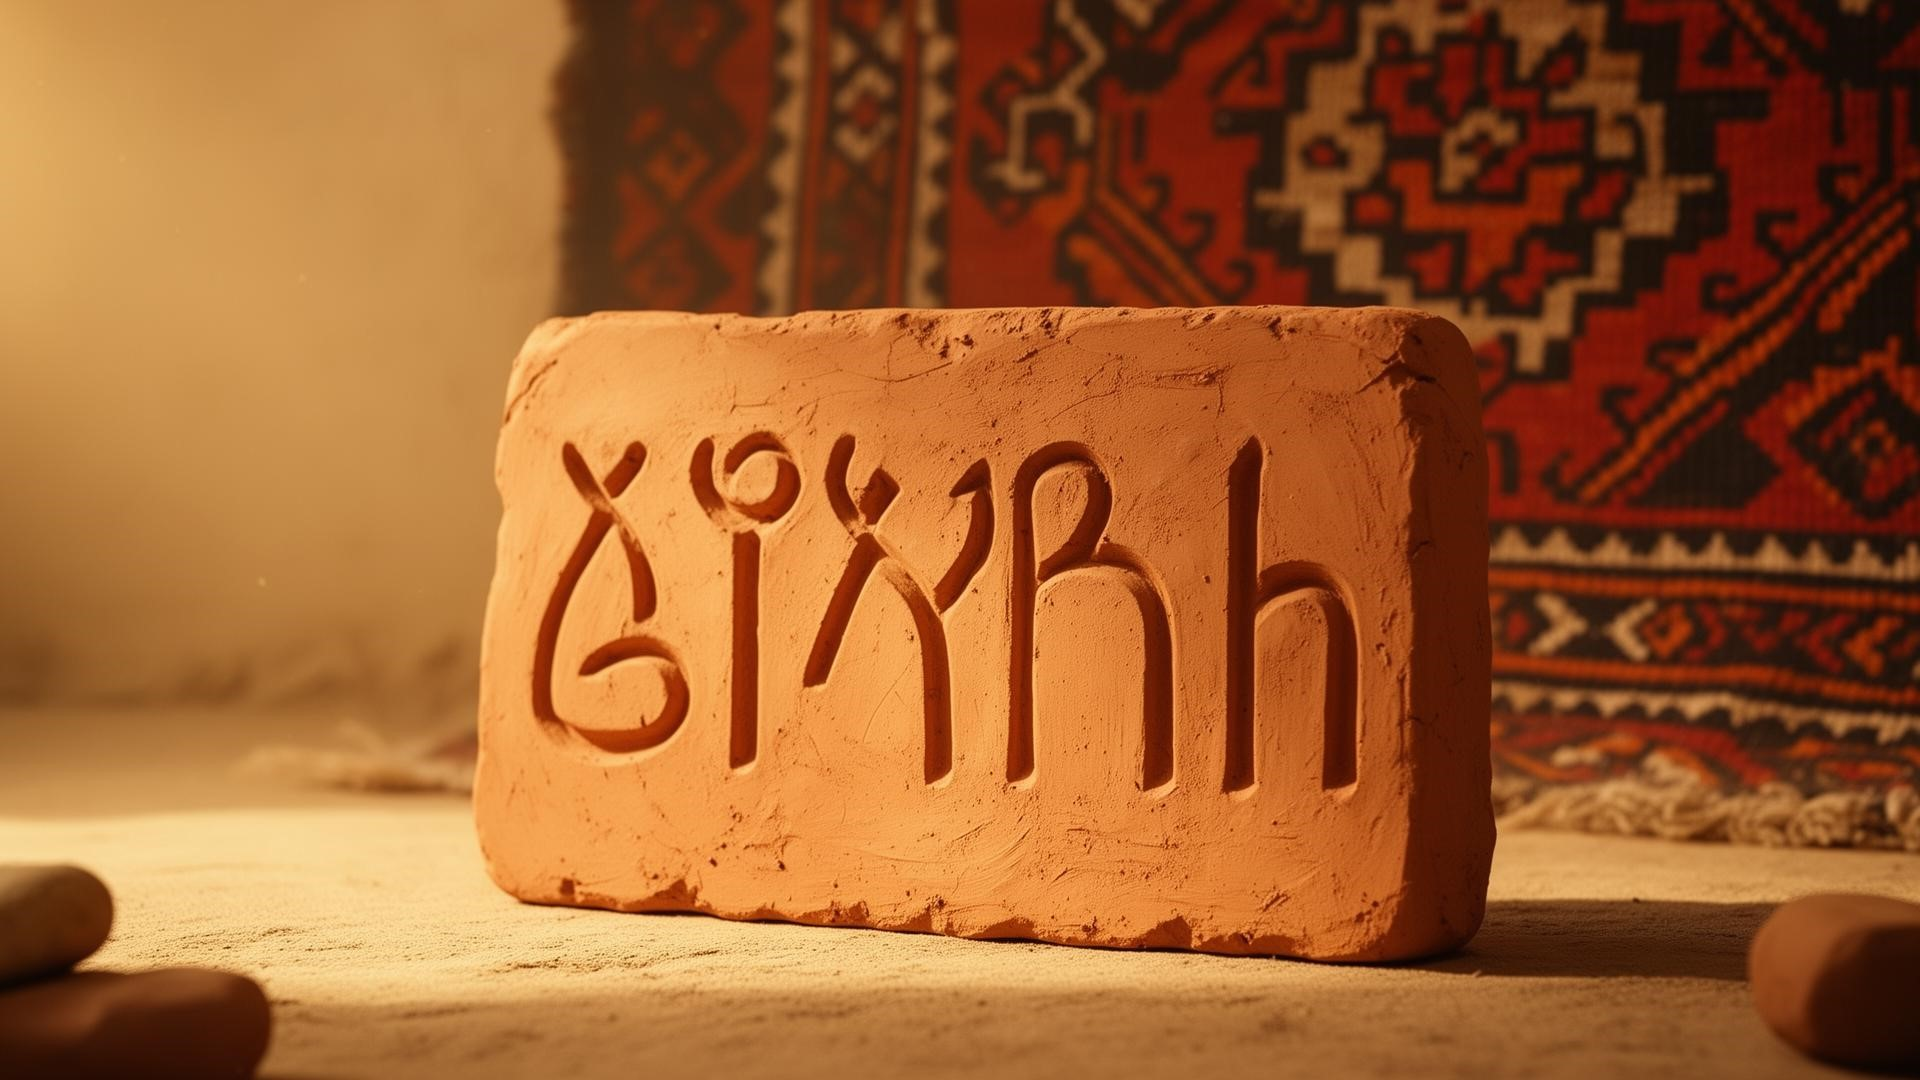
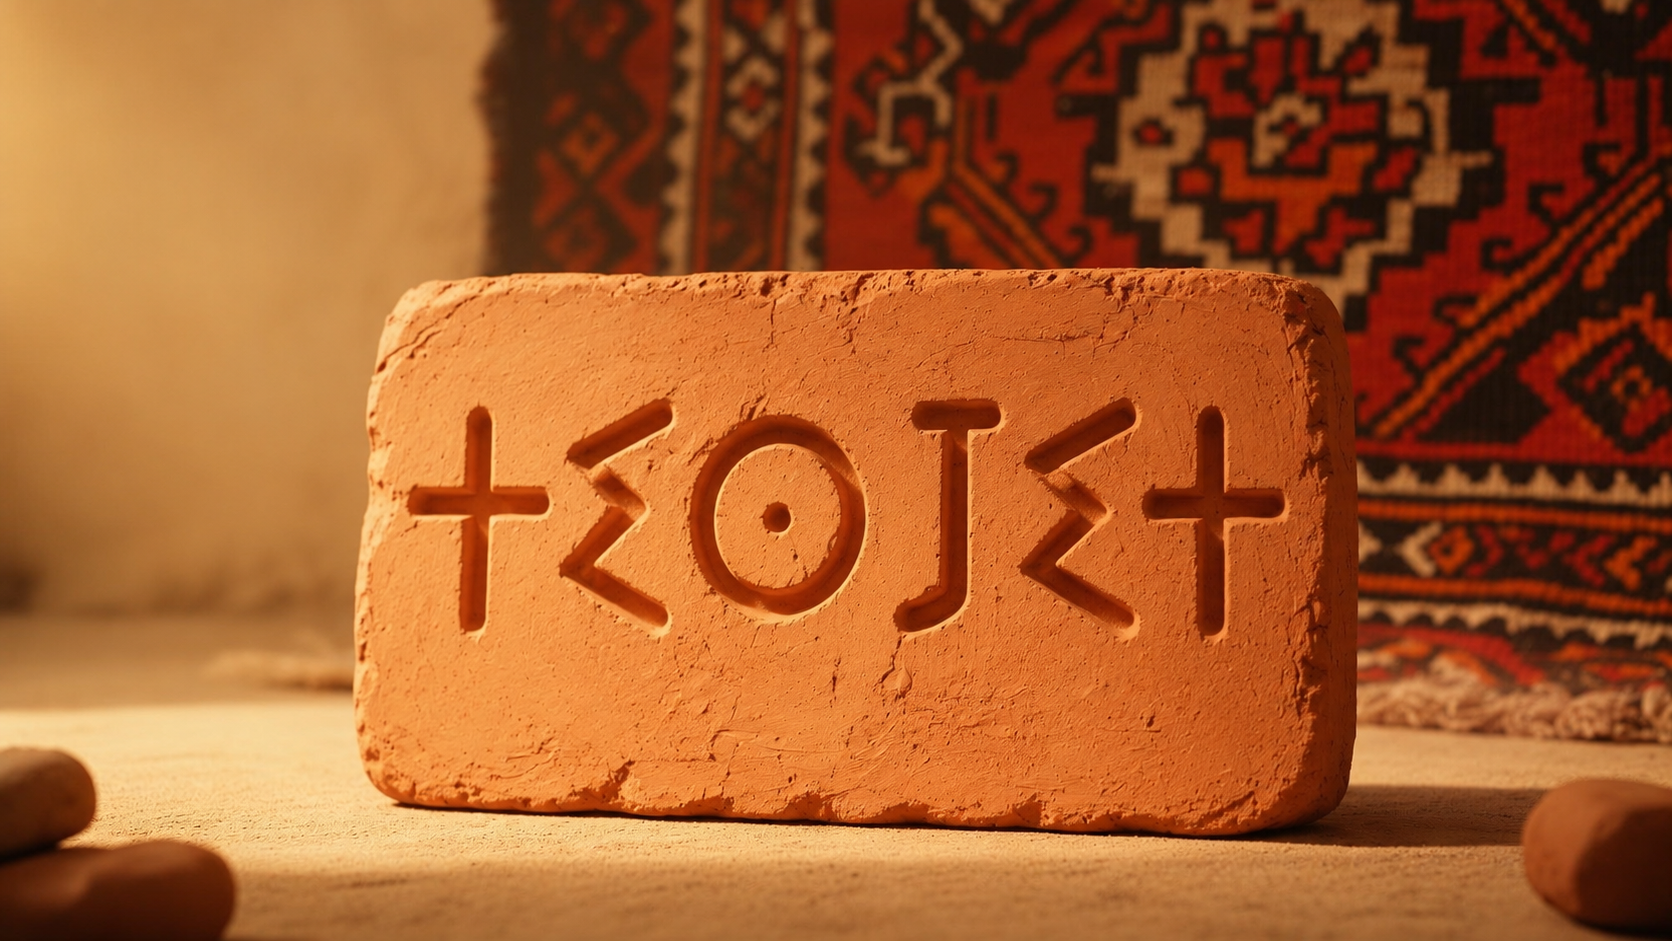
new update

diff --git a/app/dashboard/artisan/layout.tsx b/app/dashboard/artisan/layout.tsx
@@ -1,5 +1,6 @@
 import Sidebar from '../components/Sidebar';
 import Navbar from '../components/Navbar';
+import PageTransition from '@/components/PageTransition';
 
 export default function ArtisanLayout({ children }: { children: React.ReactNode }) {
   return (
@@ -10,7 +11,9 @@ export default function ArtisanLayout({ children }: { children: React.ReactNode 
         <div className="dashboard-content">
           <div className="orb orb-1" />
           <div className="orb orb-2" />
-          <div className="dashboard-inner">{children}</div>
+          <div className="dashboard-inner">
+            <PageTransition dashboardContent>{children}</PageTransition>
+          </div>
         </div>
       </div>
     </div>

diff --git a/app/dashboard/admin/layout.tsx b/app/dashboard/admin/layout.tsx
@@ -1,5 +1,6 @@
 import Sidebar from '../components/Sidebar';
 import Navbar from '../components/Navbar';
+import PageTransition from '@/components/PageTransition';
 
 export default function AdminLayout({ children }: { children: React.ReactNode }) {
   return (
@@ -10,7 +11,9 @@ export default function AdminLayout({ children }: { children: React.ReactNode })
         <div className="dashboard-content">
           <div className="orb orb-1" />
           <div className="orb orb-2" />
-          <div className="dashboard-inner">{children}</div>
+          <div className="dashboard-inner">
+            <PageTransition dashboardContent>{children}</PageTransition>
+          </div>
         </div>
       </div>
     </div>

diff --git a/app/dashboard/components/Sidebar.tsx b/app/dashboard/components/Sidebar.tsx
@@ -23,7 +23,7 @@ const adminNav: NavItem[] = [
   { label: 'Statistiques',href: '/dashboard/admin/stats',     icon: '◉' },
   { label: "Maisons d'Hôtes",href: '/dashboard/admin/maisonsdhotes',     icon: '◉' },
   { label: "Culture Amazigh",href: '/dashboard/admin/cultureamazigh',     icon: '◉' },
-  { label: 'Excursions',href: '/dashboard/admin/excursions',     icon: '◉' },
+  // { label: 'Excursions',href: '/dashboard/admin/excursions',     icon: '◉' },
 ];
 
 export default function Sidebar({ role }: { role: 'artisan' | 'admin' }) {

diff --git a/components/PageTransition.tsx b/components/PageTransition.tsx
@@ -5,10 +5,16 @@ import { usePathname } from "next/navigation";
 
 export default function PageTransition({
   children,
+  dashboardContent = false,
 }: {
   children: React.ReactNode;
+  dashboardContent?: boolean;
 }) {
   const pathname = usePathname();
+
+  if (!dashboardContent && pathname.startsWith("/dashboard")) {
+    return children;
+  }
 
   return (
     <AnimatePresence mode="wait">
